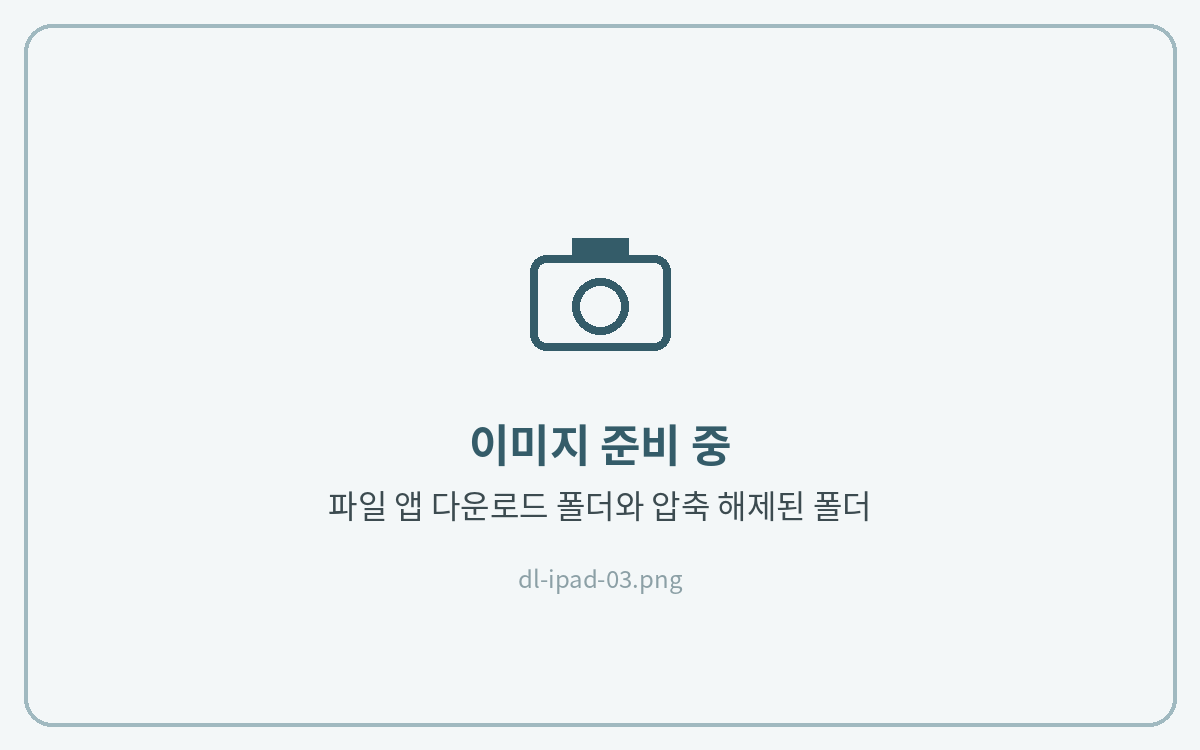
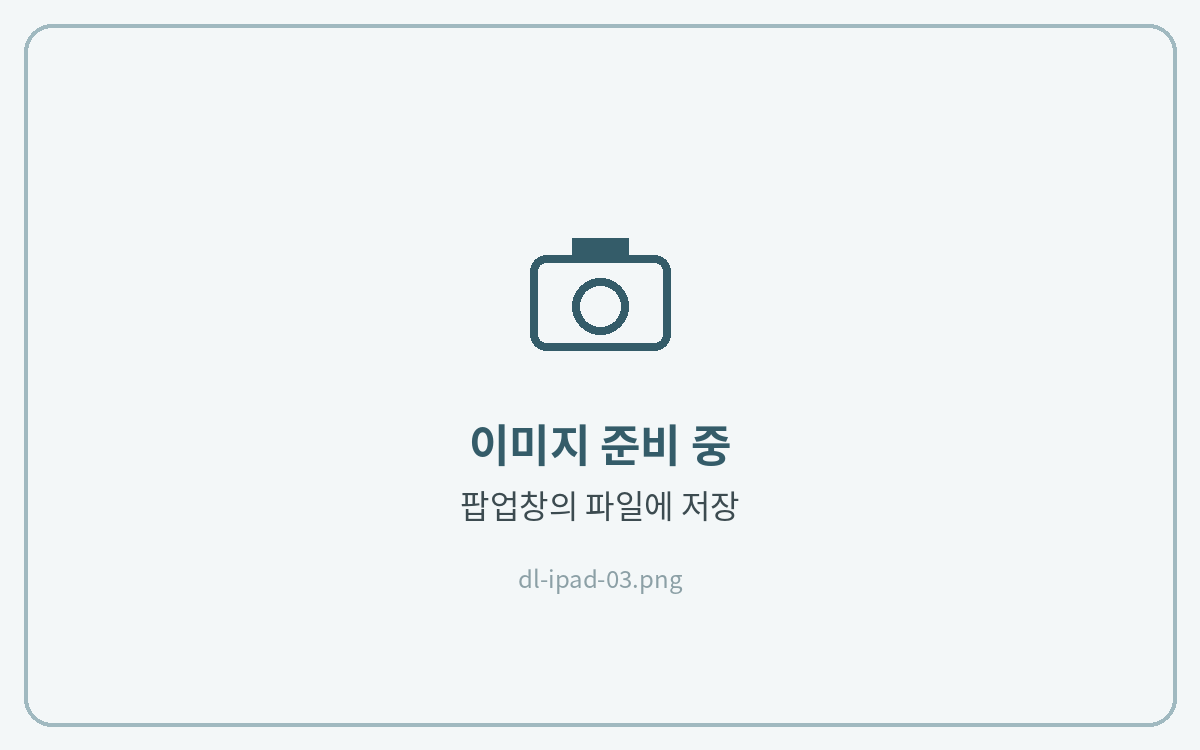
Draft: iPad download step split, Goodnotes sticker/cover/add-page/palette edits
Claude-Session: https://claude.ai/code/session_01XDpXuyQHQD34dHb3Zoswsg

Changed region(s): [[0.2775, 0.644, 0.74, 0.7053]]

diff --git a/goodnotes/cover.md b/goodnotes/cover.md
@@ -6,35 +6,45 @@ icon: image
 # 표지 변경하는 법
 
 굿노트에서는 **문서의 첫 페이지가 표지**가 됩니다.\
-새 표지를 맨 앞에 추가한 뒤 기존 표지를 삭제합니다.
+노트 안에 있는 표지를 맨 앞으로 옮기거나, 다운로드한 표지 파일을 맨 앞에 추가해 변경합니다.
+
+## 방법 1 · 노트 안의 표지로 바꾸기
 
 {% stepper %}
 {% step %}
-**첫 페이지에서 페이지 추가**
+**원하는 표지를 맨 앞으로 이동**
 
-표지(1페이지)를 연 상태에서 상단 오른쪽의 **\[페이지 추가(+)]** 아이콘을 누르고, 위치를 **\[이전]**&#xC73C;로 선택해 주세요.
+왼쪽 위 **사이드바**를 열고, 원하는 표지 페이지를 **길게 누른 채 맨 앞으로** 옮겨주세요.
 
-<figure><img src="../.gitbook/assets/goodnotes-cover-01.png" alt="페이지 추가 메뉴의 이전"><figcaption></figcaption></figure>
+<figure><img src="../.gitbook/assets/goodnotes-cover-01.png" alt="사이드바에서 표지를 맨 앞으로 이동"><figcaption></figcaption></figure>
+{% endstep %}
+{% endstepper %}
+
+## 방법 2 · 다운로드한 표지 파일로 바꾸기
+
+{% stepper %}
+{% step %}
+**앞 페이지 추가**
+
+표지(1페이지)를 연 상태에서 **\[⌄]** 아래 화살표 버튼을 누르고 **\[앞 페이지 추가]**&#xB97C; 눌러주세요.
+
+<figure><img src="../.gitbook/assets/goodnotes-cover-02.png" alt="아래 화살표 메뉴의 앞 페이지 추가"><figcaption></figcaption></figure>
 {% endstep %}
 
 {% step %}
-**표지 파일 가져오기**
+**표지 파일 선택**
 
-**\[가져오기]**&#xB97C; 누르고 다운로드해 둔 표지 파일을 선택해 주세요.\
-표지가 이미지(PNG·JPG) 파일이라면 **\[이미지]**&#xB97C; 눌러 사진 앱에서 선택하면 돼요.
+표지가 **이미지(PNG·JPG)** 파일이라면 **\[이미지]**&#xB97C; 눌러 사진 앱에서 선택해 주세요.\
+**PDF** 파일이라면 **\[불러오기]**&#xB97C; 눌러 파일 앱에서 선택해 주세요.
 
-<figure><img src="../.gitbook/assets/goodnotes-cover-02.png" alt="가져오기로 표지 선택"><figcaption></figcaption></figure>
+<figure><img src="../.gitbook/assets/goodnotes-cover-03.png" alt="이미지 또는 불러오기로 표지 선택"><figcaption></figcaption></figure>
 {% endstep %}
 
 {% step %}
 **기존 표지 삭제**
 
-왼쪽 위 **사이드바**를 열고 **\[페이지]** 탭에서 기존 표지를 선택한 뒤 **\[삭제]**&#xB97C; 눌러주세요.
+사이드바에서 기존 표지를 선택한 뒤 **\[휴지통으로 이동]**&#xC744; 눌러주세요.
 
-<figure><img src="../.gitbook/assets/goodnotes-cover-03.png" alt="사이드바에서 기존 표지 삭제"><figcaption></figcaption></figure>
+<figure><img src="../.gitbook/assets/goodnotes-cover-04.png" alt="기존 표지 휴지통으로 이동"><figcaption></figcaption></figure>
 {% endstep %}
 {% endstepper %}
-
-{% hint style="info" %}
-사이드바의 페이지 목록에서 원하는 페이지를 **맨 앞으로 드래그**해도 그 페이지가 표지가 됩니다.
-{% endhint %}

diff --git a/goodnotes/sticker.md b/goodnotes/sticker.md
@@ -43,27 +43,18 @@ icon: note-sticky
 
 {% stepper %}
 {% step %}
-**스티커를 붙일 노트 열기**
+**스티커북과 노트 열기**
 
-굿노트에서 스티커를 붙일 노트(다이어리)를 먼저 열어주세요.
+굿노트에서 **스티커북 파일**과 스티커를 붙일 **노트(다이어리)**&#xB97C; 열어주세요.
 {% endstep %}
 
 {% step %}
 **스티커북을 새 창으로 열기**
 
 상단 탭 바에 열린 **스티커북 탭을 길게 누른 채** 화면 왼쪽이나 오른쪽 끝으로 끌어다 놓아주세요.\
-스티커북이 탭에 없다면 **\[문서]** 화면에서 스티커북 표지를 길게 눌러 똑같이 화면 끝으로 끌어다 놓으면 돼요.
+스티커북이 새 창으로 열리면서 노트와 나란히 보여요.
 
 <figure><img src="../.gitbook/assets/goodnotes-splitview-01.png" alt="스티커북을 화면 끝으로 끌어다 놓기"><figcaption></figcaption></figure>
-{% endstep %}
-
-{% step %}
-**창 크기 조절하기**
-
-두 창 사이의 **가운데 구분선**을 좌우로 밀어 크기를 맞춰주세요.\
-스티커북은 좁게, 노트는 넓게 두면 필기하기 편해요.
-
-<figure><img src="../.gitbook/assets/goodnotes-splitview-02.png" alt="노트와 스티커북을 나란히 띄운 화면"><figcaption></figcaption></figure>
 {% endstep %}
 
 {% step %}
@@ -73,7 +64,7 @@ icon: note-sticky
 선택된 스티커를 **길게 누른 채** 노트 창으로 끌어다 놓으면 바로 붙어요.\
 붙인 뒤에는 크기와 위치를 자유롭게 조절할 수 있어요.
 
-<figure><img src="../.gitbook/assets/goodnotes-splitview-03.png" alt="올가미로 선택한 스티커를 노트로 드래그"><figcaption></figcaption></figure>
+<figure><img src="../.gitbook/assets/goodnotes-splitview-02.png" alt="올가미로 선택한 스티커를 노트로 드래그"><figcaption></figcaption></figure>
 {% endstep %}
 
 {% step %}
@@ -82,7 +73,7 @@ icon: note-sticky
 다 붙였다면 가운데 구분선을 **스티커북 쪽 화면 끝까지** 밀어주세요.\
 노트만 전체 화면으로 돌아와요.
 
-<figure><img src="../.gitbook/assets/goodnotes-splitview-04.png" alt="분할 화면 닫기"><figcaption></figcaption></figure>
+<figure><img src="../.gitbook/assets/goodnotes-splitview-03.png" alt="분할 화면 닫기"><figcaption></figcaption></figure>
 {% endstep %}
 {% endstepper %}
 
@@ -102,7 +93,8 @@ icon: note-sticky
 {% step %}
 **스티커 추가**
 
-**\[다음에서 불러오기]**&#xB97C; 누른 후 파일 앱에서 PNG 스티커를 선택하고 **\[생성]**&#xC744; 눌러주세요.
+파일 앱과 굿노트를 **화면 분할**로 나란히 열어주세요.\
+파일 앱에서 다운로드한 PNG 스티커를 **전체 선택**한 뒤, 새로 만든 컬렉션 안으로 끌어다 놓으면 한 번에 등록돼요.
 
 <figure><img src="../.gitbook/assets/goodnotes-sticker-04.png" alt="컬렉션에 PNG 스티커 추가"><figcaption></figcaption></figure>
 {% endstep %}

diff --git a/download/pdf/ipad.md b/download/pdf/ipad.md
@@ -23,11 +23,18 @@ icon: apple
 {% step %}
 **파일 다운로드**
 
-원하는 파일을 누르고, 우측상단의 **\[...]** 더보기 버튼을 누른 후, **\[다운로드]**&#xB97C; 눌러주세요.\
-팝업창이 열리면 **\[파일에 저장]**&#xC744; 눌러주세요.\
-(zip 파일이 아닌 경우, 저장을 생략하고 사용 중인 필기앱으로 바로 연결하셔도 됩니다)
+원하는 파일을 누른 뒤, 우측 상단의 **\[...]** 더보기 버튼 → **\[다운로드]**&#xB97C; 눌러주세요.
 
-<figure><img src="../../.gitbook/assets/dl-ipad-02.png" alt="다운로드 버튼과 확인 창"><figcaption></figcaption></figure>
+<figure><img src="../../.gitbook/assets/dl-ipad-02.png" alt="더보기 버튼의 다운로드 메뉴"><figcaption></figcaption></figure>
+{% endstep %}
+
+{% step %}
+**파일 앱에 저장**
+
+팝업창이 열리면 **\[파일에 저장]**&#xC744; 눌러주세요.\
+zip 파일이 아니라면 저장하지 않고 사용 중인 필기 앱으로 바로 열어도 돼요.
+
+<figure><img src="../../.gitbook/assets/dl-ipad-03.png" alt="팝업창의 파일에 저장"><figcaption></figcaption></figure>
 {% endstep %}
 
 {% step %}
@@ -37,7 +44,7 @@ icon: apple
 (zip 파일은 한 번 클릭하면 자동으로 압축이 해제됩니다.)\
 우측 상단의 **\[⬆]** 공유 버튼을 누른 후, 사용 중인 **\[필기 앱 아이콘]**&#xC744; 눌러주세요.
 
-<figure><img src="../../.gitbook/assets/dl-ipad-03.png" alt="파일 앱 다운로드 폴더와 압축 해제된 폴더"><figcaption></figcaption></figure>
+<figure><img src="../../.gitbook/assets/dl-ipad-04.png" alt="파일 앱 다운로드 폴더와 압축 해제된 폴더"><figcaption></figcaption></figure>
 {% endstep %}
 
 {% step %}
@@ -45,7 +52,7 @@ icon: apple
 
 굿노트는 **\[새로운 문서로 불러오기]**, 노타빌리티는 **\[새로운 노트로 가져오기]**&#xB97C; 누르면 끝이에요.
 
-<figure><img src="../../.gitbook/assets/dl-ipad-04.png" alt="공유 메뉴에서 필기 앱 선택"><figcaption></figcaption></figure>
+<figure><img src="../../.gitbook/assets/dl-ipad-05.png" alt="공유 메뉴에서 필기 앱 선택"><figcaption></figcaption></figure>
 {% endstep %}
 {% endstepper %}
 

diff --git a/goodnotes/add-page.md b/goodnotes/add-page.md
@@ -9,21 +9,20 @@ icon: file-circle-plus
 
 {% stepper %}
 {% step %}
-**페이지 선택 후 복사**
+**속지 복사**
 
-왼쪽 위 **사이드바**를 열고 **\[페이지]** 탭에서 **\[페이지 선택]**&#xC744; 눌러주세요.\
-추가하고 싶은 속지를 선택한 뒤 **\[복사]**&#xB97C; 눌러주세요.
+왼쪽 위 **사이드바**를 열고 **\[페이지]** 탭에서 추가하고 싶은 속지를 선택한 뒤 **\[복사하기]**&#xB97C; 눌러주세요.
 
-<figure><img src="../.gitbook/assets/goodnotes-add-page-01.png" alt="사이드바에서 페이지 선택 후 복사"><figcaption></figcaption></figure>
+<figure><img src="../.gitbook/assets/goodnotes-add-page-01.png" alt="사이드바에서 속지 선택 후 복사하기"><figcaption></figcaption></figure>
 {% endstep %}
 
 {% step %}
 **원하는 위치에 붙여넣기**
 
-넣고 싶은 위치의 페이지를 연 뒤 상단 오른쪽의 **\[페이지 추가(+)]** 아이콘을 눌러주세요.\
-**\[이전]**, **\[다음]**, **\[마지막 페이지]** 중 위치를 고르고 **\[페이지 붙여넣기]**&#xB97C; 눌러주세요.
+넣고 싶은 위치의 페이지를 연 뒤 **\[뒷 페이지 추가]** → **\[페이지 붙여넣기]**&#xB97C; 눌러주세요.\
+지금 보고 있는 페이지 바로 뒤에 복사한 속지가 추가돼요.
 
-<figure><img src="../.gitbook/assets/goodnotes-add-page-02.png" alt="페이지 추가 메뉴의 페이지 붙여넣기"><figcaption></figcaption></figure>
+<figure><img src="../.gitbook/assets/goodnotes-add-page-02.png" alt="뒷 페이지 추가 → 페이지 붙여넣기"><figcaption></figcaption></figure>
 {% endstep %}
 {% endstepper %}
 

diff --git a/goodnotes/note-palette.md b/goodnotes/note-palette.md
@@ -25,16 +25,20 @@ icon: palette
 {% step %}
 **속지 복사**
 
-왼쪽 위 **사이드바**의 **\[페이지]** 탭에서 **\[페이지 선택]** → 해당 속지 선택 → **\[복사]**&#xB97C; 눌러주세요.
+오른쪽 위 **\[...]** 더보기 버튼을 누르고 **\[페이지 복사]**&#xB97C; 눌러주세요.
 
-<figure><img src="../.gitbook/assets/goodnotes-note-palette-02.png" alt="사이드바에서 속지 복사"><figcaption></figcaption></figure>
+<figure><img src="../.gitbook/assets/goodnotes-note-palette-02.png" alt="더보기 메뉴의 페이지 복사"><figcaption></figcaption></figure>
 {% endstep %}
 
 {% step %}
 **바인더에 붙여넣기**
 
-바인더의 원하는 위치로 이동한 뒤 **\[페이지 추가(+)]** → 위치 선택 → **\[페이지 붙여넣기]**&#xB97C; 눌러주세요.
+원하는 바인더 위치로 이동한 뒤, 오른쪽 위 **\[...]** 더보기 버튼 → **\[페이지 추가]** → **\[페이지 붙여넣기]**&#xB97C; 눌러주세요.
 
-<figure><img src="../.gitbook/assets/goodnotes-note-palette-03.png" alt="바인더 위치에 붙여넣기"><figcaption></figcaption></figure>
+<figure><img src="../.gitbook/assets/goodnotes-note-palette-03.png" alt="더보기 → 페이지 추가 → 페이지 붙여넣기"><figcaption></figcaption></figure>
 {% endstep %}
 {% endstepper %}
+
+{% hint style="success" %}
+**TIP** · [페이지 추가하는 법](add-page.md)에서 다른 방법으로 페이지를 붙여넣는 방법도 확인하실 수 있습니다.
+{% endhint %}
